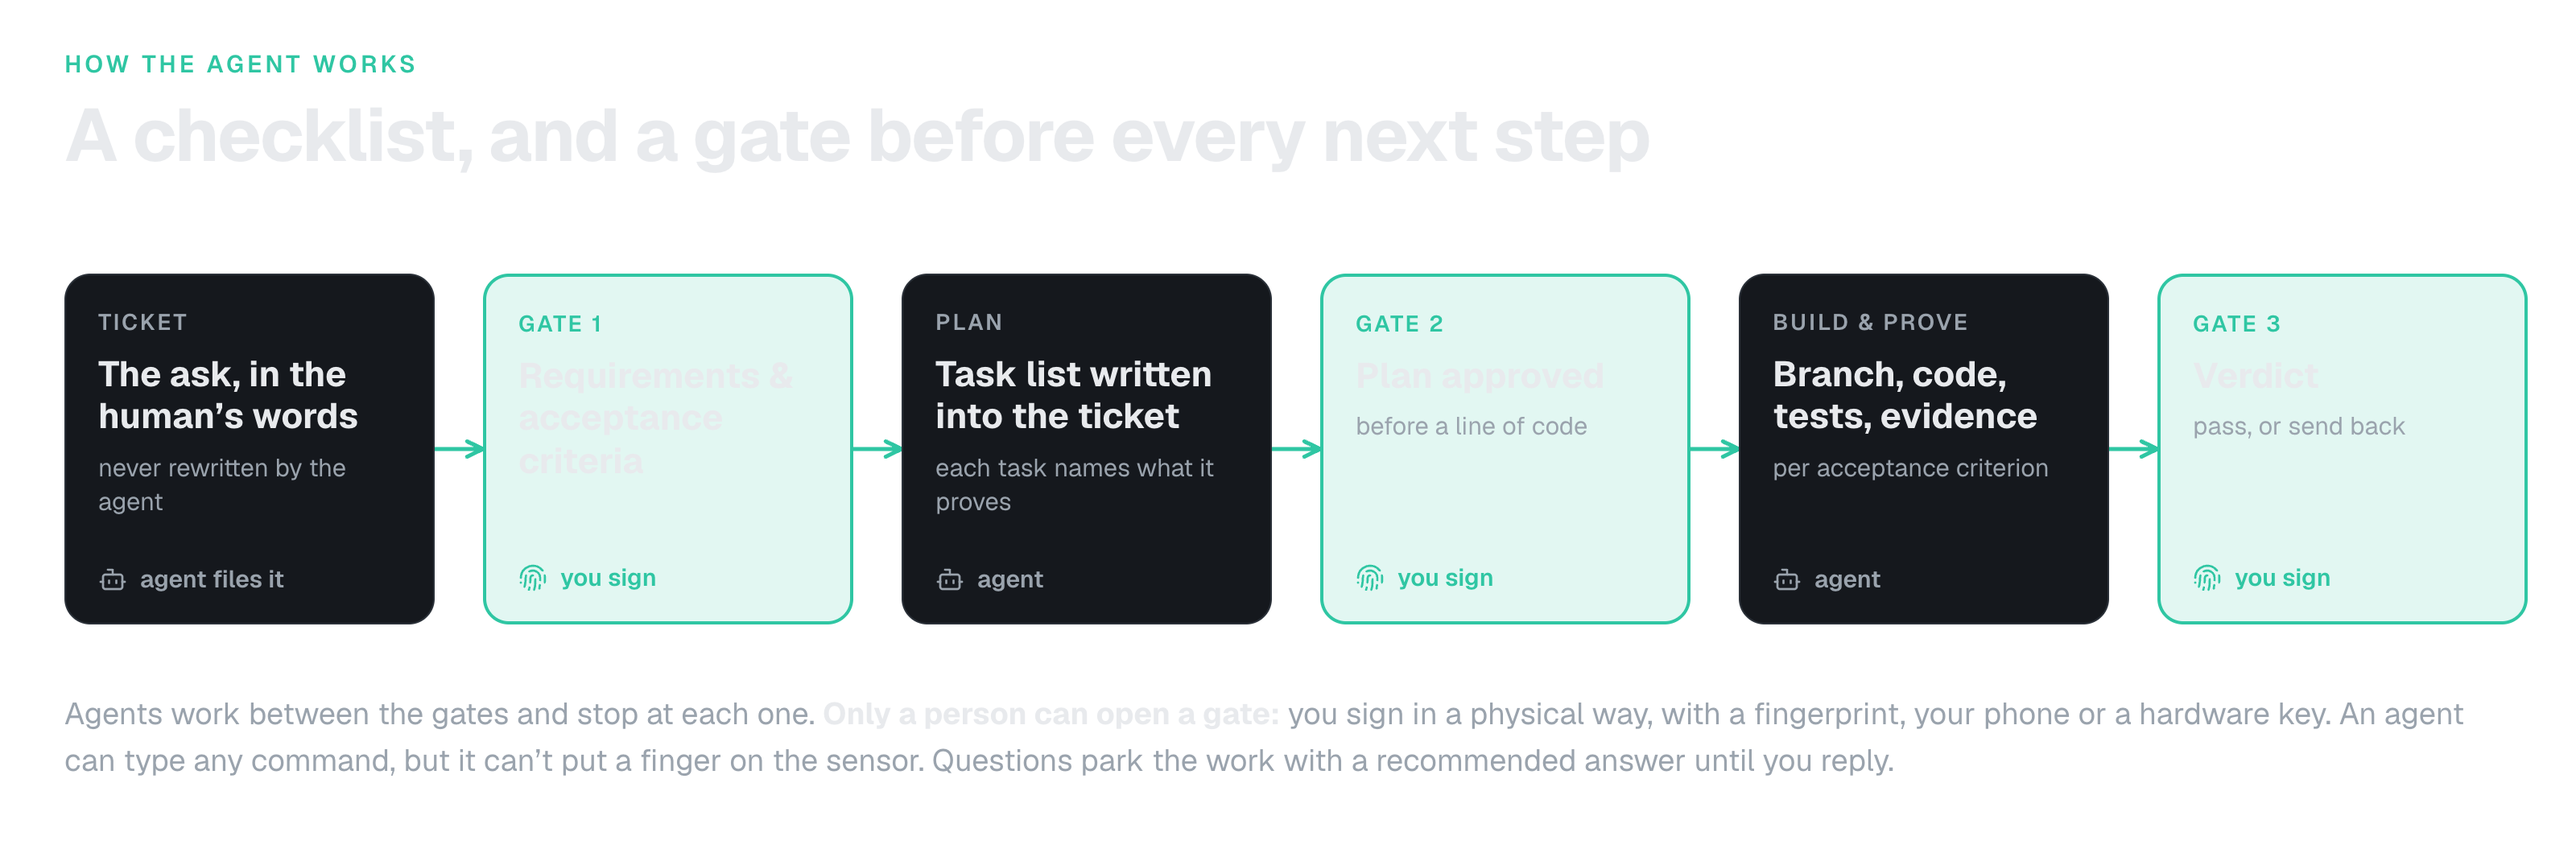
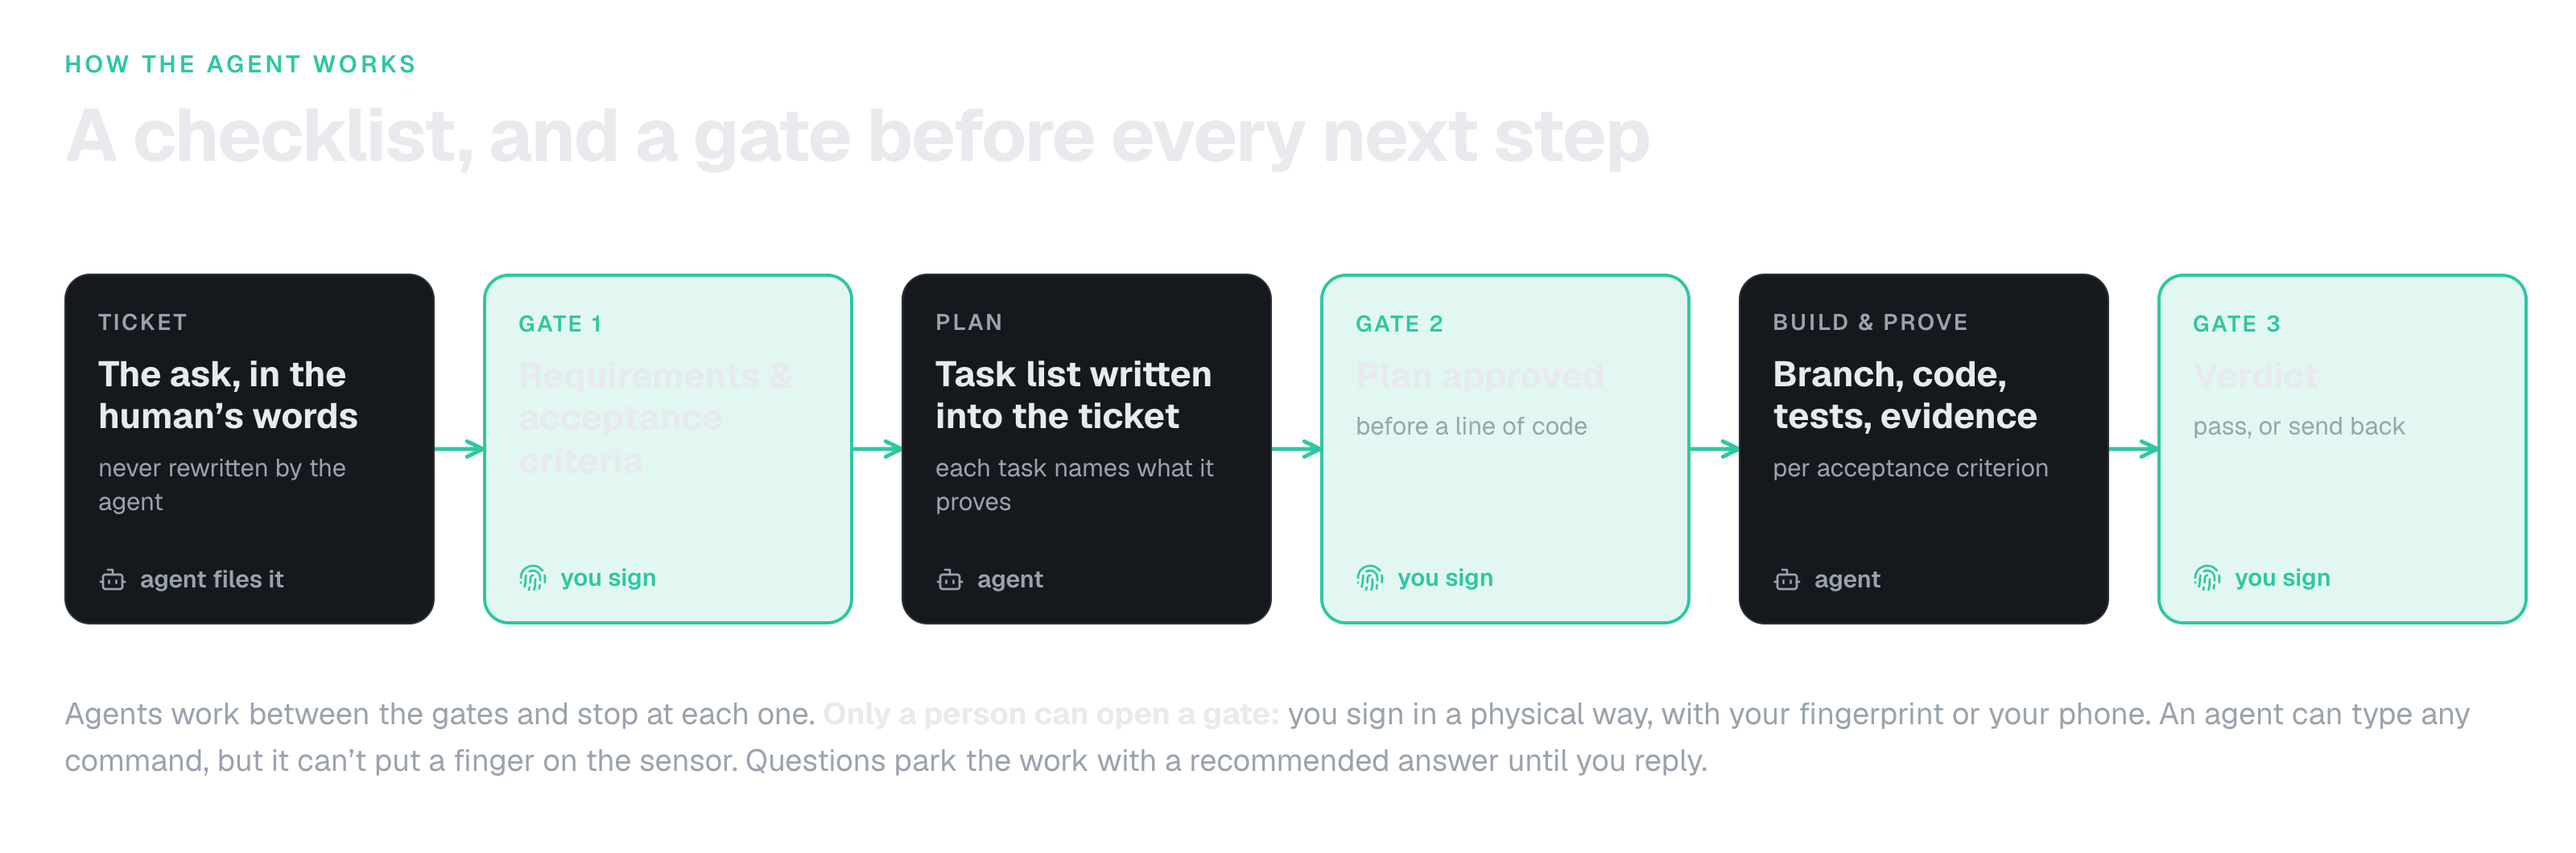
docs: physical signing today is fingerprint or phone; hardware keys next

Changed region(s): [[0.0312, 0.8094, 0.9688, 0.9028]]

diff --git a/docs/images/readme/src/diagrams.html b/docs/images/readme/src/diagrams.html
@@ -243,7 +243,7 @@ h1 { font-size: 46px; font-weight: 700; letter-spacing: -.02em; line-height: 1.1
   <div class="g gate" id="g4" style="left:820px; top:170px"><div class="n">Gate 2</div><div class="t">Plan approved</div><div class="s">before a line of code</div><div class="who"><svg class="ico"><use href="#i-finger"/></svg>you sign</div></div>
   <div class="g" id="g5" style="left:1080px; top:170px"><div class="n">Build &amp; prove</div><div class="t">Branch, code, tests, evidence</div><div class="s">per acceptance criterion</div><div class="who"><svg class="ico"><use href="#i-bot"/></svg>agent</div></div>
   <div class="g gate" id="g6" style="left:1340px; top:170px"><div class="n">Gate 3</div><div class="t">Verdict</div><div class="s">pass, or send back</div><div class="who"><svg class="ico"><use href="#i-finger"/></svg>you sign</div></div>
-  <div class="foot" style="top:430px">Agents work between the gates and stop at each one. <b>Only a person can open a gate:</b> you sign in a physical way, with a fingerprint, your phone or a hardware key. An agent can type any command, but it can’t put a finger on the sensor. Questions park the work with a recommended answer until you reply.</div>
+  <div class="foot" style="top:430px">Agents work between the gates and stop at each one. <b>Only a person can open a gate:</b> you sign in a physical way, with your fingerprint or your phone. An agent can type any command, but it can’t put a finger on the sensor. Questions park the work with a recommended answer until you reply.</div>
 </section>
 
 <!-- ============ 4. Architecture ============ -->

diff --git a/README.md b/README.md
@@ -37,7 +37,7 @@ Each ticket follows the same path, with a gate before every next step:
   <img src="docs/images/readme/gates-light.png" alt="Ticket, then gate 1 requirements and acceptance criteria (you sign), plan, gate 2 plan approved (you sign), build and prove, gate 3 verdict (you sign).">
 </picture>
 
-- **Gates only a person can open.** Approvals, answers and verdicts are bound to the exact text you saw and need a physical act to sign: your fingerprint, your phone (Face ID), or any hardware signer such as a security key or a TPM chip. Agents get no signing commands, and orch refuses a gate without a person's signature.
+- **Gates only a person can open.** Approvals, answers and verdicts are bound to the exact text you saw and need a physical act to sign: your fingerprint or your phone (Face ID). Hardware keys and TPM chips are next. Agents get no signing commands, and orch refuses a gate without a person's signature.
 - **Agents that ask instead of guessing.** `orch ask` parks a question with options and a recommended answer, and `orch wait` blocks until you reply, at your desk or on your phone.
 - **Evidence, not claims.** Acceptance criteria, a task list ticked off with proof, and artifacts (screenshots, test reports, PRs) per criterion, before a ticket reaches your verdict.
 - **Memory that survives a holiday.** Every change is an appended, signed event. The current-state note on each ticket tells you where it stands and what's next.
